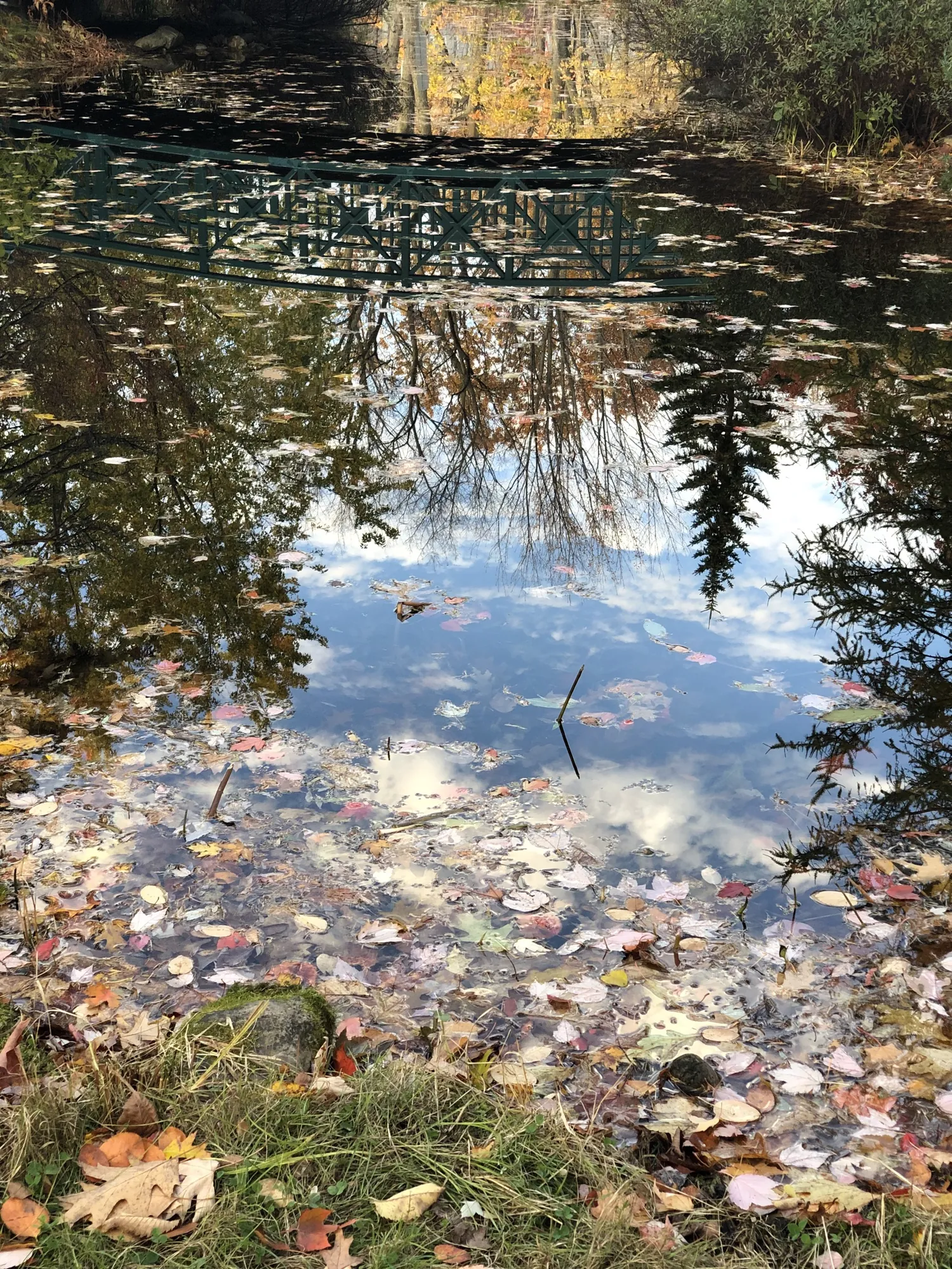
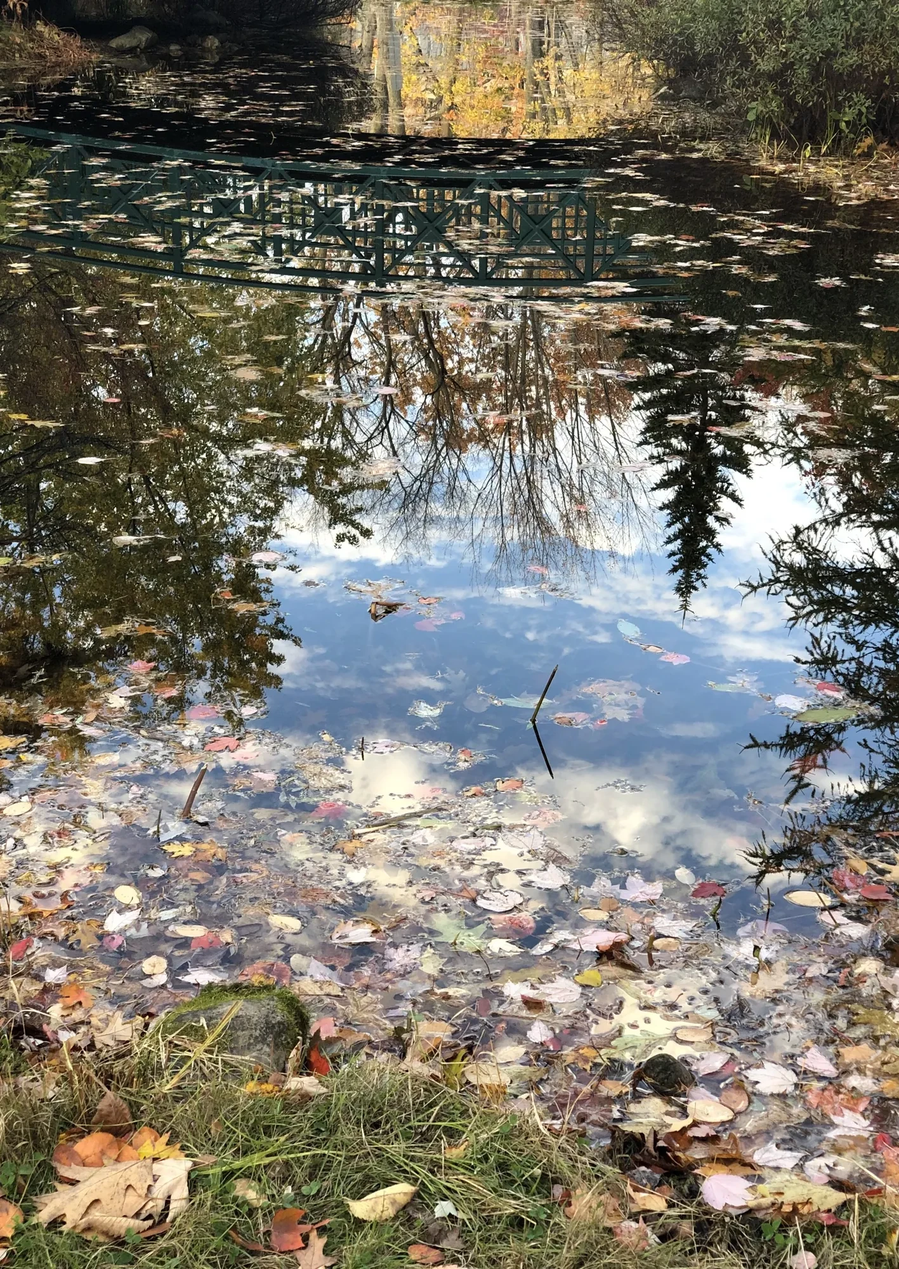
Line up the bottom of the Gallery grid

diff --git a/index.html b/index.html
@@ -702,7 +702,7 @@
             </figure>
             <figure class="gallery-item">
                 <button type="button" class="gallery-open" data-full="assets/img/gallery/autumn-reflection.webp" aria-label="View larger: Autumn in the reflection">
-                    <img src="assets/img/gallery/autumn-reflection-sm.webp" alt="Clouds, trees and a green footbridge reflected in a still pond scattered with fallen autumn leaves" width="675" height="900" loading="lazy">
+                    <img src="assets/img/gallery/autumn-reflection-sm.webp" alt="Clouds, trees and a green footbridge reflected in a still pond scattered with fallen autumn leaves" width="675" height="953" loading="lazy">
                 </button>
                 <figcaption>Autumn in the reflection<span class="gallery-meta">Quebec City, QC · October 2019</span></figcaption>
             </figure>
@@ -852,9 +852,9 @@
             </figure>
             <figure class="gallery-item">
                 <button type="button" class="gallery-open" data-full="assets/img/gallery/chaudiere-falls.webp" aria-label="View larger: Chaudière Falls in summer">
-                    <img src="assets/img/gallery/chaudiere-falls-sm.webp" alt="Several white cascades pouring over a wide wall of dark layered rock into a churning river, with green trees along the top" width="900" height="675" loading="lazy">
+                    <img src="assets/img/gallery/chaudiere-falls-sm.webp" alt="Several white cascades pouring over a wide wall of dark layered rock into a churning river, with green trees along the top" width="900" height="763" loading="lazy">
                 </button>
-                <figcaption>Chaudière Falls in summer<span class="gallery-meta">Chutes-de-la-Chaudière Park, QC · August 2020</span></figcaption>
+                <figcaption>Chaudière Falls in summer<span class="gallery-meta">Chaudière Falls Park, QC · August 2020</span></figcaption>
             </figure>
         </div>
         <p class="card gallery-empty">Photos coming soon.</p>
